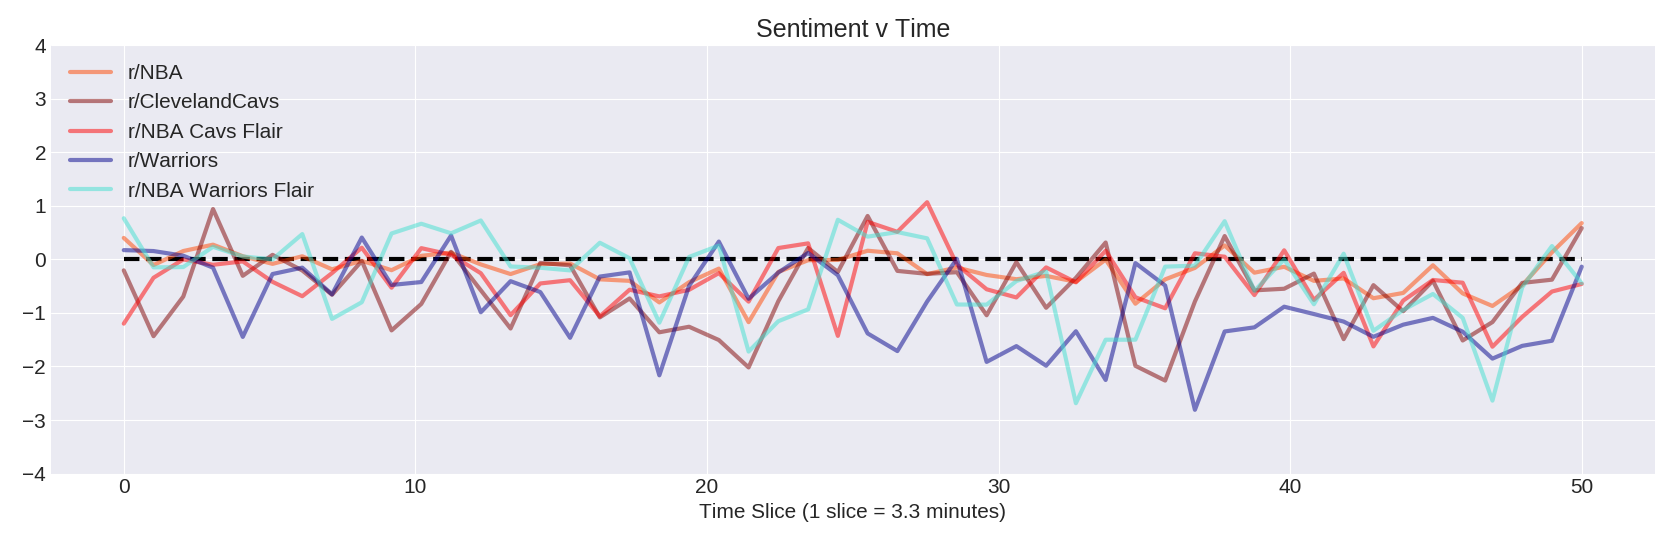
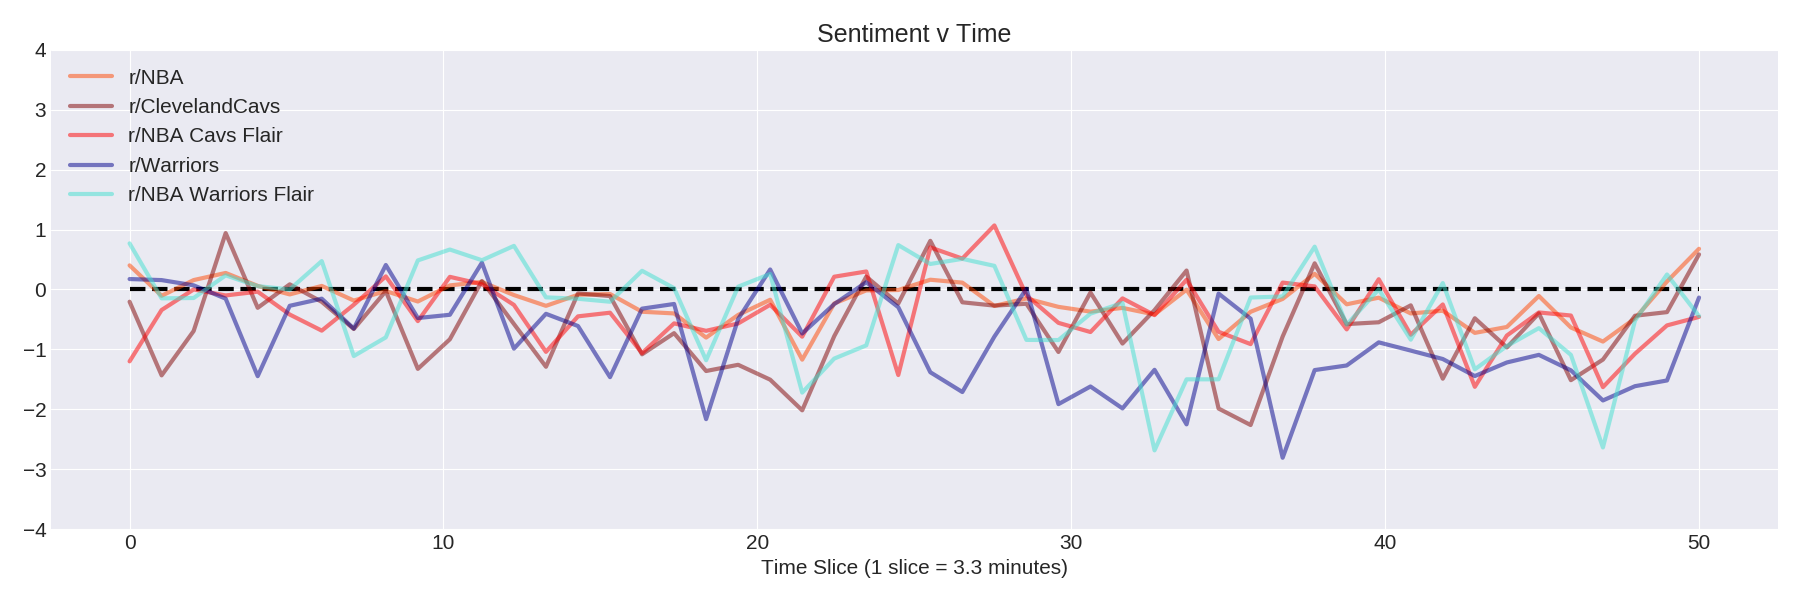
changed overlap plot scaling

diff --git a/src/SentimentScoreCommentDensityOverlap.py b/src/SentimentScoreCommentDensityOverlap.py
@@ -28,7 +28,7 @@ flair_dubs_data = flair_dubs_df[['time_slice','sentiment_score']].groupby('time_
 
 def plot_sentiment():
     matplotlib.rc('lines', linewidth=3)
-    fig, ax = plt.subplots(figsize=(15, 4))
+    fig, ax = plt.subplots(figsize=(18, 6))
 
     x = np.linspace(0, nba_data.shape[0], num = nba_data.shape[0])
     ax.plot(x, nba_data['sentiment_score']['mean'], color = 'orangered', alpha = 0.5)
@@ -53,7 +53,7 @@ def plot_sentiment():
 
 def plot_density():
     matplotlib.rc('lines', linewidth=3)
-    fig, ax = plt.subplots(figsize=(20, 4))
+    fig, ax = plt.subplots(figsize=(18, 6))
 
     x = np.linspace(0, nba_data.shape[0], num = nba_data.shape[0])
     # ax.plot(x, nba_data['sentiment_score']['size'], color = 'orangered', alpha = 0.5) # skews the plot
